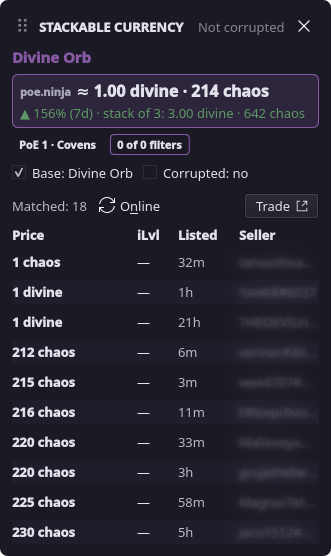
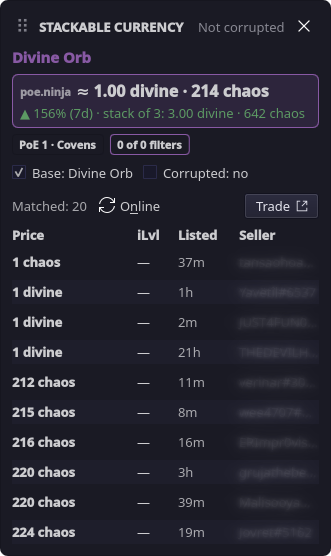
Inset filter row contents inside the highlight

diff --git a/qml/Main.qml b/qml/Main.qml
@@ -268,7 +268,9 @@ Window {
 
                         RowLayout {
                             id: frl
-                            anchors { left: parent.left; right: parent.right; verticalCenter: parent.verticalCenter }
+                            // Inset so the min/max fields don't touch the highlighted row's edge.
+                            anchors { left: parent.left; right: parent.right; verticalCenter: parent.verticalCenter
+                                      leftMargin: 2; rightMargin: 6 }
                             spacing: 4
                             CheckBox {
                                 focusPolicy: Qt.NoFocus
